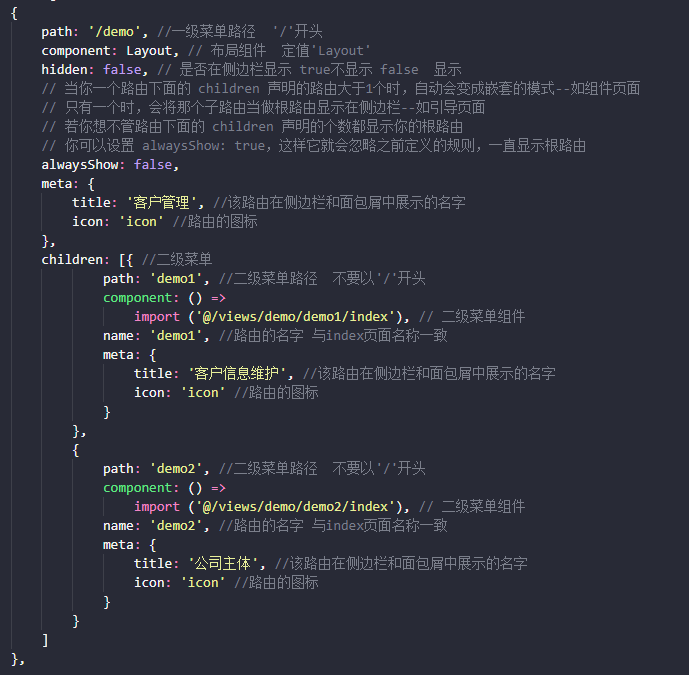
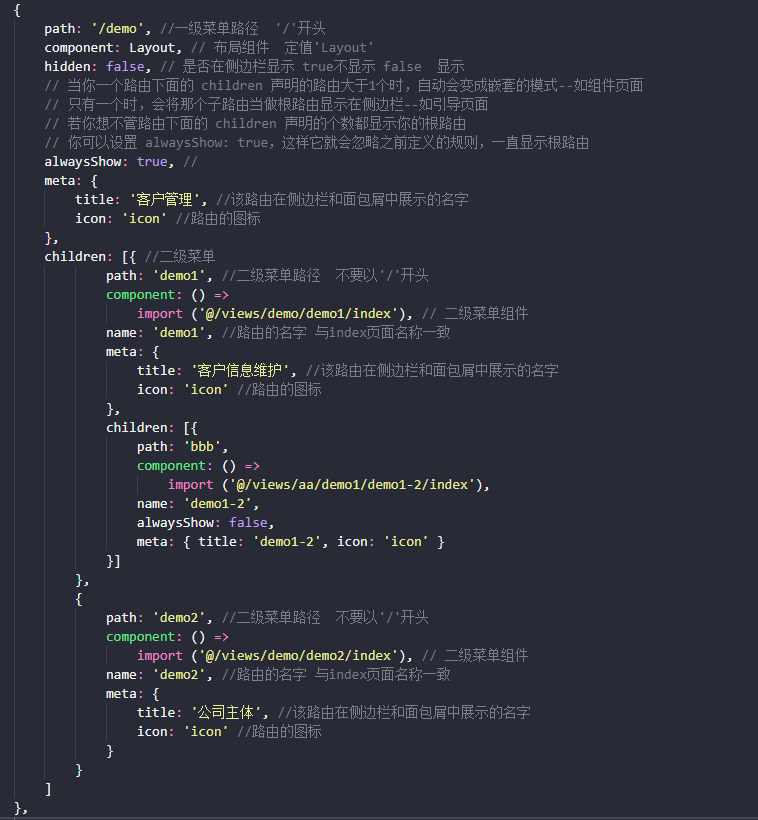
update

diff --git a/src/store/modules/user.js b/src/store/modules/user.js
@@ -64,7 +64,7 @@ const actions = {
                                 // 只有一个时，会将那个子路由当做根路由显示在侧边栏--如引导页面
                                 // 若你想不管路由下面的 children 声明的个数都显示你的根路由
                                 // 你可以设置 alwaysShow: true，这样它就会忽略之前定义的规则，一直显示根路由
-                                alwaysShow: false,
+                                alwaysShow: true, //
                                 meta: {
                                     title: '客户管理', //该路由在侧边栏和面包屑中展示的名字
                                     icon: 'icon' //路由的图标
@@ -104,10 +104,19 @@ const actions = {
                                         component: () =>
                                             import ('@/views/aa/demo1/index'),
                                         name: 'demo3',
+                                        alwaysShow: true,
                                         meta: {
                                             title: '客户信息维护11',
                                             icon: 'icon'
-                                        }
+                                        },
+                                        children: [{
+                                            path: 'bbb',
+                                            component: () =>
+                                                import ('@/views/aa/demo1/demo1-2/index'),
+                                            name: 'demo1-2',
+                                            alwaysShow: false,
+                                            meta: { title: 'demo1-2', icon: 'icon' }
+                                        }]
                                     },
                                     {
                                         path: 'cc',

diff --git a/src/views/index.vue b/src/views/index.vue
@@ -65,6 +65,7 @@
     <el-backtop>
       <div class="back">UP</div>
     </el-backtop>
+    <router-view />
   </div>
 </template>
 
@@ -287,7 +288,7 @@ export default {
                     {
                       id: this.updateDateObj[itemKey].id,
                       Login_SessionId:
-                        "SESSION_B56E8716BA234A5A89EBD776DE501EB1",
+                        "SESSION_307B8CBFBBD1444B9BFCB0DD65F02DC9",
                     }
                   ).then((res) => {
                     this.$refs[`${tableId}Table`].length
@@ -325,7 +326,7 @@ export default {
                     {
                       ...this.forms[`${tableId}`],
                       Login_SessionId:
-                        "SESSION_B56E8716BA234A5A89EBD776DE501EB1",
+                        "SESSION_307B8CBFBBD1444B9BFCB0DD65F02DC9",
                     }
                   ).then((res) => {
                     // 关闭form表单loading

diff --git a/src/components/MButton/index.vue b/src/components/MButton/index.vue
@@ -18,7 +18,8 @@
 </template>
 
 <script>
-import { isDisabledFn } from "@/utils/index";
+import { isDisabledFn, setBtnStatus } from "@/utils/index";
+import getStatus from "@/common/status.js";
 export default {
   name: "MButton",
   inject: {
@@ -69,11 +70,14 @@ export default {
     },
   },
   data() {
-    return {};
+    return {
+      status:
+        getStatus(this.$route.name)[this.itemConfig["statusValidateId"]] || {},
+    };
   },
   computed: {
     disabled: function () {
-      return isDisabledFn(this.itemConfig, this.isDisbled);
+      return setBtnStatus(this.status, this.rowObj);
     },
     isReset: function () {
       return this.itemConfig._id === "reset";

diff --git a/src/components/MTable/index.vue b/src/components/MTable/index.vue
@@ -164,11 +164,11 @@ export default {
       );
       fetch(this.tableConfig.$.action, this.tableConfig.$.method, {
         date: encodeURIComponent(
-          "Mon Jan 04 2021 19:27:29 GMT 0800 (中国标准时间)"
+          "Mon Apr 19 2021 10:12:02 GMT 0800 (中国标准时间)"
         ),
         conditions: "",
         currentDCId: "FB68C5CEEC1640C3B1D09BEBCD99FD5E",
-        Login_SessionId: "SESSION_B56E8716BA234A5A89EBD776DE501EB1",
+        Login_SessionId: "SESSION_307B8CBFBBD1444B9BFCB0DD65F02DC9",
         readOnly: "YES",
         page: val,
         rows: this.pageSize,

diff --git a/src/views/aa/demo1/demo1-2/index.vue b/src/views/aa/demo1/demo1-2/index.vue
@@ -1,0 +1,25 @@
+<template>
+  <m-comp :xml-obj="xmlObj" />
+</template>
+
+<script>
+import MComp from "@/views/index";
+
+// 引入xml配置文件
+const modulesFiles = require.context("./pageConfig", true, /\.xml$/);
+const modules = modulesFiles.keys().map((modulePath) => {
+  return modulesFiles(modulePath);
+}, {});
+
+export default {
+  name: "demo1-2",
+  components: {
+    MComp,
+  },
+  data() {
+    return {
+      xmlObj: modules,
+    };
+  },
+};
+</script>

diff --git a/src/utils/index.js b/src/utils/index.js
@@ -356,3 +356,13 @@ export function isDisabledFn(item, flag) {
     if (item.isDisabled && flag === 'true') return true
     return item.disabled ? Boolean(item.disabled) : Boolean(0)
 }
+
+export function setBtnStatus(status, row) {
+    let flag = false;
+    if (status && Object.keys(row).length > 0) {
+        if (row[status['key']] && status['value']) {
+            flag = status['value'].includes(row[status['key']]);
+        }
+    }
+    return flag
+}

diff --git a/src/components/MZoom/index.vue b/src/components/MZoom/index.vue
@@ -249,7 +249,7 @@ export default {
         ),
         conditions: "",
         currentDCId: "FB68C5CEEC1640C3B1D09BEBCD99FD5E",
-        Login_SessionId: "SESSION_B56E8716BA234A5A89EBD776DE501EB1",
+        Login_SessionId: "SESSION_1647E779816645DE9C19C14608CF75DD",
         readOnly: "YES",
         page: val,
         rows: this.pageSize,

diff --git a/src/common/status.js b/src/common/status.js
@@ -1,0 +1,12 @@
+const common = {
+    ff: { 'key': 'status', 'value': '3' }
+}
+const options = {
+    demo1: {
+        a: { 'key': 'status', 'value': ['2', '3', '4'] },
+    },
+}
+
+export default function getStatus(name) {
+    return Object.assign({}, options[name] || {}, common)
+}

diff --git a/src/router/index.js b/src/router/index.js
@@ -73,7 +73,7 @@ export const constantRoutes = [{
     {
         path: '/icons',
         component: Layout,
-        hidden: true,
+        hidden: false,
         children: [{
             path: 'icons',
             component: () =>

diff --git a/src/styles/element-ui.scss b/src/styles/element-ui.scss
@@ -139,6 +139,7 @@
 }
 
 .el-table .cell {
-    height: 23px;
+    height: 28px;
+    line-height: 28px;
     white-space: nowrap;
 }

diff --git a/doc.md b/doc.md
@@ -120,7 +120,9 @@
 >>> | placeholder | 按钮文字 | string | - |
 >>> | addToMore | 按钮是否加入更多下拉框内 true是 false否 | string | - |
 >>> | isQueryBtn | 是否是查询按钮 true是  false否 | string | - |
+>>> | statusValidateId | 按钮状态校验id 用于表格操作按钮一些状态下置灰校验 **(注：statusValidateId在common/status.js内配置 key值配置为需要校验的字段，value值数组配置哪些状态下置灰不可点击)** | string | - |
 >>> | _id | 与需要操作的table、alert、dialog标签上定义的_id一致 用于指明需要操作的是哪个标签 **(注：若_id值为reset 则表示该按钮是重置按钮 用于清空查询表单项数据)**  | string | - |
+>> ![按钮权限](./src/assets/doc_img/status.png) 
 > ### 四、表格
 >> - #### table
 >>> | 参数 | 说明 | 类型 | 默认值 |
@@ -157,7 +159,7 @@
 >>> | disabledId  | 两个button操作该弹窗时配合isDisabled使用  例：_id="add\|update" add、update按钮唤起同一个弹窗  需要update按钮唤起的弹窗里面一些表单字段置灰不可修改 设置disabledId为update formItem表单项设置isDisabled为true 则同一个表单项add内的可修改  update内的置灰| string | - |
 >>> | saveOnShow | 点击保存后是否关闭弹窗  ture否  false是 **(注：若为true 保存成功后 保存按钮置灰不可点击）**| string | false |
 
-## option配置
+## options配置
 > - 配置文件位置：common/options.js
 > ![配置](./src/assets/doc_img/option.png) 
 
@@ -173,7 +175,7 @@
 > |  path | 菜单路径  一级菜单以'/'开头 二级菜单不用| string | - |
 > | component | 组件 一级菜单下该值为定值"Layout" 二级菜单下该值为index页面路径 | string | - |
 > | hidden | 是否在侧边栏显示 true不显示 false  显示 | string | false |
-> | alwaysShow | // 当你一个路由下面的 children 声明的路由大于1个时，自动会变成嵌套的模式--如组件页面，只有一个时，会将那个子路由当做根路由显示在侧边栏--如引导页面，若你想不管路由下面的 children 声明的个数都显示你的根路由，你可以设置 alwaysShow: true，这样它就会忽略之前定义的规则，一直显示根路由 | string | - |
+> | alwaysShow | // 一级二级路由设为true，若有三级  第三级设为false| string | - |
 > | meta | 路由元信息 title：该路由在侧边栏和面包屑中展示的名字 icon：路由的图标 | string | - |
 > | children | 子菜单项配置数组  配置说明同上 | string | - |
 > ![按钮权限](./src/assets/doc_img/router.png) 
